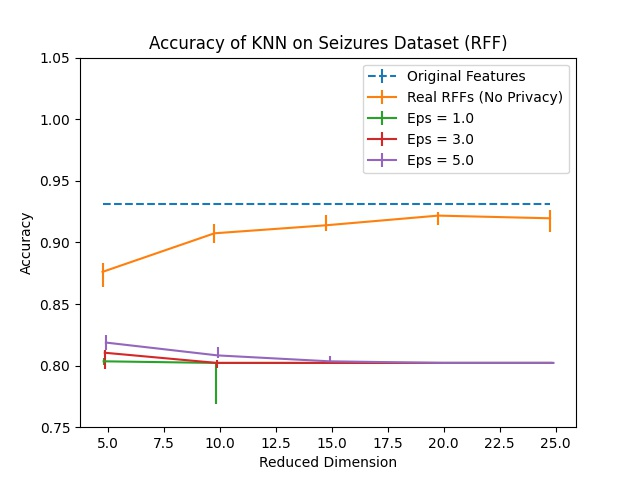
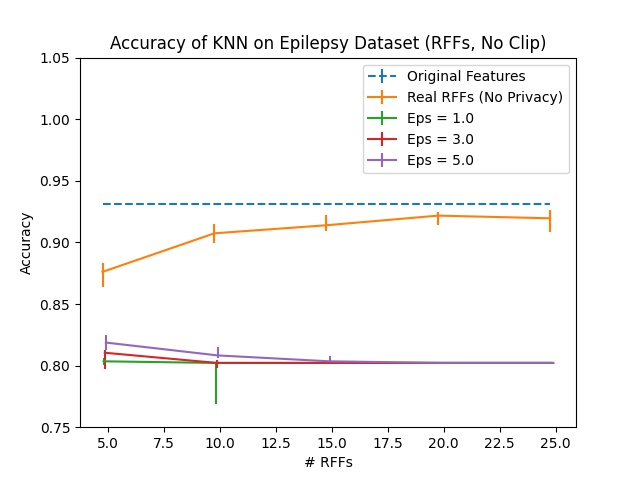
Do some replotting

Changed region(s): [[0.1562, 0.0625, 0.8438, 0.125], [0.4062, 0.9375, 0.625, 0.9688]]

diff --git a/multi-dim-featcreation/Submission_Plots/Replot.py b/multi-dim-featcreation/Submission_Plots/Replot.py
@@ -6,14 +6,14 @@ algs = ['KNN']
 num_trials = 25
 total_eps_list = [1.0, 2.0, 3.0, 4.0, 5.0]
 for alg in algs:
-	file = 'covtype67_rffrealclip_%s_trials=%i' % (alg.lower(), num_trials)
+	file = 'epileptic_rffreal_%s_trials=%i' % (alg.lower(), num_trials)
 	alg_df = pd.read_csv('%s.csv' % file)
 	alg_df = alg_df.set_index('Dimension')
 	print(alg_df)
 
 	shift = -0.25
 	# Edit!
-	plt.ylim((0.45, 1.05))
+	plt.ylim((0.75, 1.05))
 	plt.errorbar(alg_df.index + shift, alg_df['Original Features'], \
 		yerr = np.zeros(shape = (2, len(alg_df))), label = 'Original Features', linestyle = 'dashed')
 	# plt.errorbar(alg_df.index + shift, alg_df['PCA'], \
@@ -30,7 +30,7 @@ for alg in algs:
 
 	plt.xlabel("# RFFs")
 	plt.ylabel("Accuracy")
-	plt.title('Accuracy of KNN on Forest Cover 6/7 (RFFs)')
+	plt.title('Accuracy of KNN on Epilepsy Dataset (RFFs, No Clip)')
 	plt.legend(loc = "upper right")
 	plt.savefig('%s.jpg' % file)
 	plt.close()
